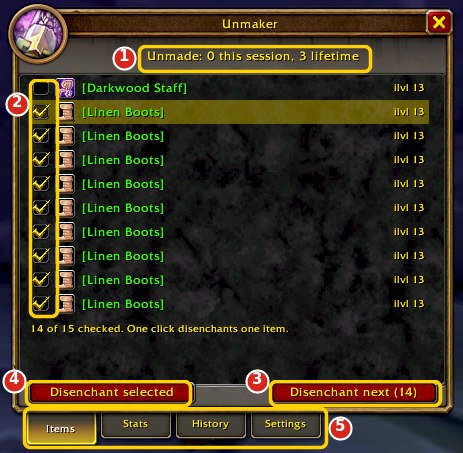
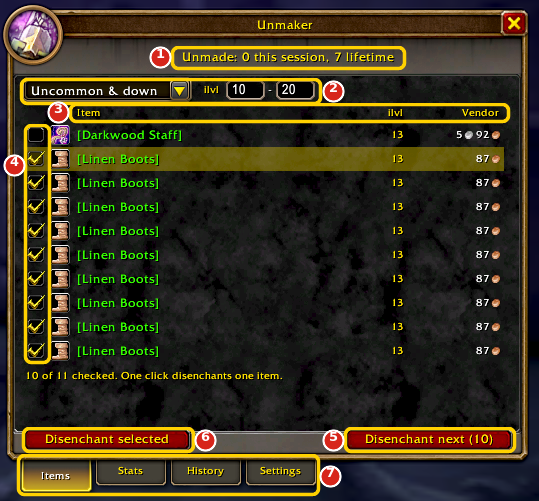
docs: new annotated Unmaker screenshots for filters, chart and Who
The window grew to 520 wide and gained filters, a Vendor column, a
Stats chart and a History Who column, so the README pictures and
their numbered notes are redone. Character names are covered with a
solid box.

diff --git a/README.md b/README.md
@@ -155,34 +155,39 @@ Disenchanting without the hunt through your bags. One window lists everything yo
 - **Never** disenchants without your click, and does nothing in combat.
 
 <p align="center">
-  <img src="docs/screenshots/unmaker-items.png" alt="Unmaker's Items tab: the Unmade counts, a checkbox list of gear to disenchant, the Disenchant selected and Disenchant next buttons, and the four tabs" width="420">
+  <img src="docs/screenshots/unmaker-items.png" alt="Unmaker's Items tab: the Unmade counts, the quality and item level filters, sortable Item, ilvl and Vendor headings, a checkbox list of gear to disenchant, the Disenchant selected and Disenchant next buttons, and the four tabs" width="420">
   <img src="docs/screenshots/unmaker-bags.png" alt="The Unmaker button above the bag window" width="400">
 </p>
 
 **Items tab** (left):
 1. **Unmade:** how many items you've disenchanted this session and in total.
-2. **Checkboxes:** uncheck what you want to keep. Unmaker remembers.
-3. **Disenchant next:** one click disenchants the next checked item shown in the list (filters and sorting change which one is next). You can bind it to a key.
-4. **Disenchant selected:** disenchants only the row you clicked, if it's checked.
-5. **Tabs:** Items, Stats, History and Settings.
+2. **Filters:** pick a quality ("Rare & down", "Uncommon & down") and an item level range. The line under the list says how many items the filters hide.
+3. **Headings:** click Item, ilvl or Vendor to sort, and again to reverse. **Vendor** is what a vendor would pay for the item.
+4. **Checkboxes:** uncheck what you want to keep. Unmaker remembers.
+5. **Disenchant next:** one click disenchants the next checked item shown in the list (filters and sorting change which one is next). You can bind it to a key.
+6. **Disenchant selected:** disenchants only the row you clicked, if it's checked.
+7. **Tabs:** Items, Stats, History and Settings.
 
 **Bag window** (right):
 1. The **Unmaker** button above your bags opens and closes the window.
 
 <p align="center">
-  <img src="docs/screenshots/unmaker-stats.png" alt="Unmaker's Stats tab: counts, the character dropdown open, fun facts and lifetime materials" width="420">
-  <img src="docs/screenshots/unmaker-history.png" alt="Unmaker's History tab: sortable headings and the loot from each disenchant" width="420">
+  <img src="docs/screenshots/unmaker-stats.png" alt="Unmaker's Stats tab: counts, the character dropdown, a 14-day chart, fun facts and lifetime materials" width="420">
+  <img src="docs/screenshots/unmaker-history.png" alt="Unmaker's History tab: the character dropdown, sortable headings, who unmade each item (names hidden) and the loot from each disenchant" width="420">
 </p>
 
 **Stats tab** (left):
 1. **Counts:** lifetime, today and this session.
 2. **Characters:** the dropdown picks all your characters together or one of them.
-3. **Fun facts:** your most-unmade item, best item, busiest day and first disenchant.
-4. **Materials:** everything your disenchants have given you.
+3. **Chart:** how many items you unmade each day for 14 days, today in gold. It follows the dropdown.
+4. **Fun facts:** your most-unmade item, best item, busiest day and first disenchant.
+5. **Materials:** everything your disenchants have given you.
 
 **History tab** (right):
-1. Click a heading to sort, and again to reverse. The dropdown above shows one character's disenchants.
-2. **Got:** the materials each disenchant gave.
+1. **Characters:** show every character's disenchants, or just one character's.
+2. **Headings:** click one to sort, and again to reverse. Dates read month-day, then time; hover a row to see the year.
+3. **Who:** the character that unmade the item (names are hidden in this picture).
+4. **Got:** the materials each disenchant gave.
 
 <p align="center">
   <img src="docs/screenshots/unmaker-settings.png" alt="Unmaker's Settings tab: keep epics, keep soulbound gear, hide equipment-set items, open when you loot, open with your bags, show the button above the bags" width="420">
